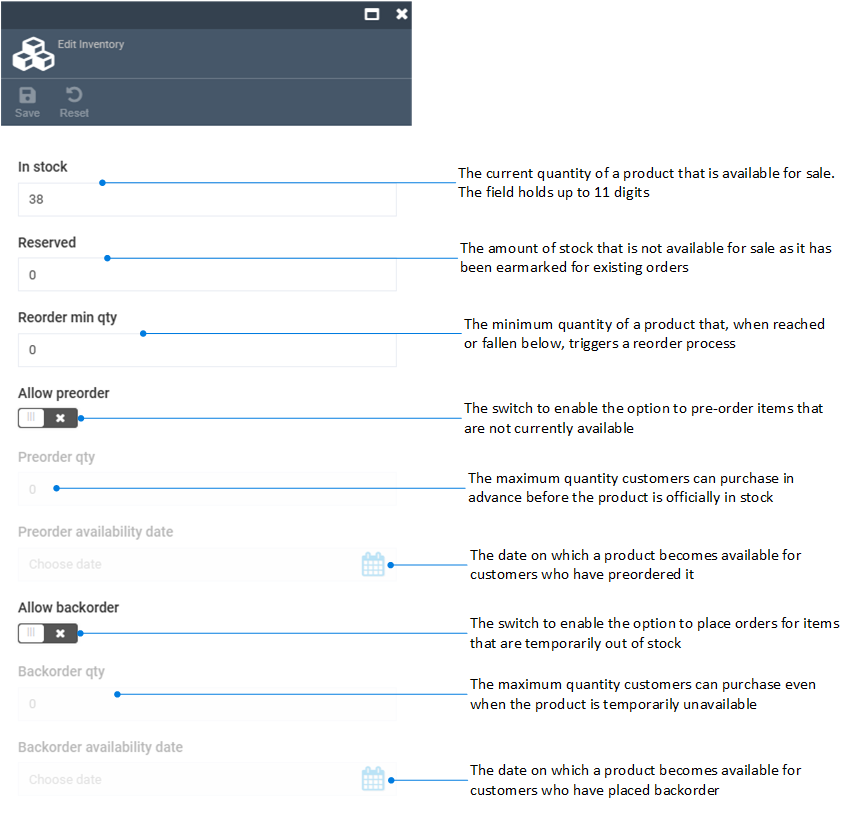
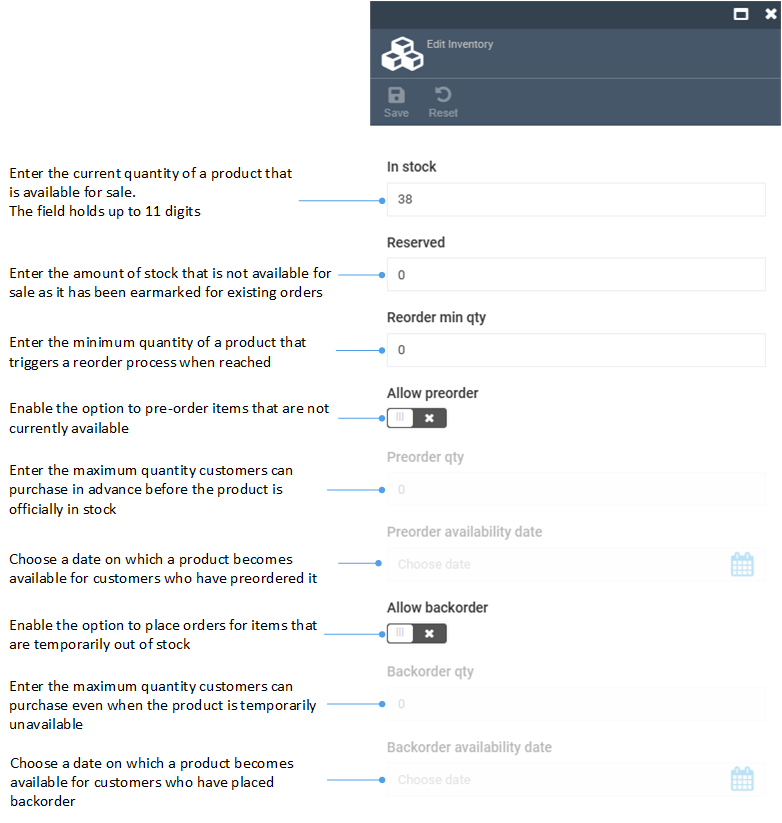
Minor corrections

diff --git a/platform/user-guide/docs/glossary.md b/platform/user-guide/docs/glossary.md
@@ -1,9 +1,8 @@
-
 **Association:** A tool that allows you to add a block of related items to a product or multiple products. For example, this could be a widget with related products or accessories that go with the product in question.
 
 **Bill of materials:** A special type of Product that is actually a list of materials required for a specific item purchased by the customer that can be created for internal purposes.
  
-**Catalog:** A module offered by the Virto Commerce platform that allows you to create your own product catalog linked to one or more stores. A typical catalog houses various categories of products and their variations. 
+**Catalog:** A module offered by the Virto Commerce Platform that allows you to create your own product catalog linked to one or more stores. A typical catalog houses various categories of products and their variations. 
 
 **Category:** Each category acts as a container, or folder, that houses various products of a particular type; these can be both physical and digital products. For example, a consumer electronics site might have categories such as laptops, tablets, smartphones, cameras, etc.
 
@@ -23,31 +22,37 @@
 
 **Employee:** A profile of an employee working for a specific company.
 
-**End Date** and **Start Date**: Dates that define the contract period; the contract is considered to be within this date range.
+**End date** and **Start date**: Dates that define the active period of a contract, promotion, or other time-based entity.
 
 **Facet:** A set of properties grouped together (e.g., size and color).
 
-**GTIN, or Global Trade Item Number:** Part of a numerical code used to uniquely identify a product. Currently, GTIN is used exclusively with bar codes.
+**Fulfillment center:** Processing unit involved in receiving, processing, and delivering orders to end customers.
 
-**Inheritance:** A technique that allows entities at different levels to inherit tags. Tags can be inherited both 'upwards' (e.g. a category inherits the tags of product) and 'downwards' (e.g. a product inherits the tags of its category).
+**GTIN, or Global Trade Item Number:** Part of a numerical code used to uniquely identify a product. 
 
-**Modified Price:** A price that is different from the default price because it has been updated by the user.
+**Inheritance:** A technique that allows entities at different levels to inherit tags. Tags can be inherited both **upwards** (e.g. a category inherits the tags of product) and **downwards** (e.g. a product inherits the tags of its category).
 
-**Physical Product:** Any tangible product that the shop owner can list in the shop. Physical products have a unique Track Inventory attribute that digital products do not have. Shipping and Fulfillment Center attributes are also relevant to them.
+**Modified price:** A price that is different from the default price because it has been updated by the user.
 
-**Product:** A basic entity in Virto Commerce's Catalog module, a product is a basic type of item that can be created and listed on an e-commerce site. You can choose to create entries for both physical and digital products. There are also special types of products, such as bills of materials and variations.
+**Physical product:** Any tangible product that the shop owner can list in the shop. Physical products have a unique Track Inventory attribute that digital products do not have. Shipping and Fulfillment Center attributes are also relevant to them.
+
+**Product:** A basic entity in Virto Commerce's Catalog module, a product is a basic type of item that can be created and listed on an e-commerce site. You can choose to create entries for both physical and digital products. There are also special types of products, such as bills of materials, variations, and configurables.
 
 **Property:** Properties are customizable entities that each catalog, category, or product (including its variations) can have. For example, typical properties for a physical product might include size, color, brand, etc.
+
+**Quote:** Formal document from a seller that provides a potential buyer with the estimated cost of specific products or services, along with the terms and conditions of a potential sale.
 
 **SKU:** Short for Stock Keeping Unit, an SKU is an alphanumeric code used to track product inventory. By adding SKUs to each product variation, store owners can easily track the number of products available and create thresholds to determine if a new order is needed.
 
 **SEO:** Virto Commerce catalog offers dedicated SEO tools to increase traffic to the ecommerce store. In particular, one can add meta titles, descriptions, keywords and image alt-texts for a specific product to make it more discoverable on the web.
 
-**Store:** Any digital means of marketing and/or selling products created with the Virto Commerce platform and its modules. Technically, this can be an e-commerce website, a mobile app, etc.
+**Store:** Any digital means of marketing and/or selling products created with the Virto Commerce Platform and its modules. Technically, this can be an e-commerce website, a mobile app, etc.
 
 **Variation:** Each product may have one or more variations; for example, a cell phone may come in different colors: blue, white, black, etc. You can create variations based on color, size, and other properties that you configure.
 
-**Vendor (Merchant):** A profile for a vendor you work with.
+**Vendor (Merchant, Seller):** A profile for a vendor you work with.
+
+**Warehouse:** Same as **Fulfillment center**. 
 
 
 

diff --git a/platform/user-guide/docs/catalog/setting-product-availability.md b/platform/user-guide/docs/catalog/setting-product-availability.md
@@ -6,8 +6,6 @@ Product inventories are shown in Frontend Application:
 * In the cart after adding the products. 
 * When processing orders.
 
-![Product availability](media/storefront-stock.png)
-
 The product's availability displayed in the Frontend Application is determined by the information configured in:
 
 * The **Catalog** module, where availability settings are established using switches.
@@ -37,17 +35,27 @@ To set product's availability:
     !!! info 
         Track inventory switch can be applied to both digital and physical products. By default, the switch is off for digital products, on for physical ones. 
 
-1. In the same blade, click on the **Fulfillment Centers** widget.
+1. In the same blade, click on the **Fulfillment centers** widget.
 
-    ![add-inventory](media/inventory-path.png)
+    ![add-inventory](media/inventory-path.png){: style="display: block; margin: 0 auto;" }
 
 1. Fill in the following fields:
 
-    ![Edit inventory](../inventory/media/edit-inventory.png)
+    ![Edit inventory](../inventory/media/edit-inventory.png){: style="display: block; margin: 0 auto;" }
 
 1. Click **Save** to save changes.   
 
 The product's availability has been set.
+
+Try our interactive demo to explore key features in action:
+
+<div>
+  <script async src="https://js.storylane.io/js/v2/storylane.js"></script>
+  <div class="sl-embed" style="position:relative;padding-bottom:calc(49.22% + 25px);width:100%;height:0;transform:scale(1)">
+    <iframe loading="lazy" class="sl-demo" src="https://virtocommerce.storylane.io/demo/vorljmcpyz7y?embed=inline" name="sl-embed" allow="fullscreen" allowfullscreen style="position:absolute;top:0;left:0;width:100%!important;height:100%!important;border:1px solid rgba(63,95,172,0.35);box-shadow: 0px 0px 18px rgba(26, 19, 72, 0.15);border-radius:10px;box-sizing:border-box;"></iframe>
+  </div>
+</div>
+
 
 ## Check availability
 
@@ -56,14 +64,14 @@ To check product's availability:
 1. Follow steps 1-3 from the instruction above.
 1. In the next blade, click on the **Index** widget.
 
-    ![Index widget](media/index-widget.png){: width="300" height="300"}
+    ![Index widget](media/index-widget.png){: style="display: block; margin: 0 auto;" width="500"}
 
 1. Find the **availability** line. The **availability** statuses can be as follows:
     * **InStock**.
     * **OutOfStock**.
     * **SoldOut**.
 
-    ![Availability status](media/availability-status.png)
+    ![Availability status](media/availability-status.png){: style="display: block; margin: 0 auto;" }
 
 
 <br>

diff --git a/platform/user-guide/docs/general-guidelines.md b/platform/user-guide/docs/general-guidelines.md
@@ -36,6 +36,12 @@ The feature is available only for multi-language Frontend configurations.
 
 When a customer changes the language in the Frontend, the permalink is updated in the browser to include the selected culture code (for example, **/en/about-us** --> **/de/über-uns**). The selected language is saved in local storage and automatically applied as the default language for future visits.
 
+### Items URLs
+
+When you open the desired order, product, or product category, you can copy its URL and paste it into a new window to open the desired item immediately:
+
+![Copy and paste order URL](media/order-url.gif)
+
 
 ## Blades
 
@@ -68,12 +74,6 @@ In the **Settings** toolbar, you can:
 
 ![Restart and reset](media/restart-reset.png){: style="display: block; margin: 0 auto;" }
 
-## Items URLs
-
-When you open the desired order, product, or product category, you can copy its URL and paste it into a new window to open the desired item immediately:
-
-![Copy and paste order URL](media/order-url.gif)
-
 
 ## Developer tools
 
@@ -88,6 +88,12 @@ This section gives developers access to useful diagnostics and integration tools
 
 
 The **Developer tools** blade is available to users with the **platform:developer-tools:access** permission. Access to **Hangfire** also requires the same permission.
+
+## Glossary
+
+All terms used throughout the Platform user documentation are listed in the [Glossary](glossary.md), where you can find clear definitions and explanations for each concept.
+Some key terms also include tooltips that appear the first time they are mentioned in the documentation, helping you quickly understand their meaning without leaving the page.
+
 
 <br>
 <br>

diff --git a/platform/user-guide/docs/multiregional-ecommerce.md b/platform/user-guide/docs/multiregional-ecommerce.md
@@ -28,7 +28,7 @@ The Catalog module supports master catalogs, which are physical catalogs that st
 The following modules are included to discuss a multi-regional ecommerce solution.
 
 * **Web store** is a sales point for the store, which can be a website, application, or other platform.
-* **Virto Commerce** is a Platform with native, extended, or new customer-specific modules.
+* **Virto Commerce** is a platform with native, extended, or new customer-specific modules.
 * **The catalog module** is responsible for running CRUD operations to build the seller's product catalog structure.
 * **The master catalog** contains the seller's catalog assortment master data, which can be uploaded via .CSV file import or RESTful API. The master catalog can be enhanced with additional properties through the back office and can be utilized for multiple stores configured in Virto Commerce. In the scheme, the master catalog is directly used for US and CA web stores.
 * **The virtual catalog** is a tool that can be used to build a subset or combination of items from one or more master catalogs. This tool adjusts the catalog structure to meet specific regional requirements. The virtual catalog can be created and used specifically for the EU region web store in the architecture scheme.

diff --git a/platform/user-guide/docs/inventory/managing-inventory.md b/platform/user-guide/docs/inventory/managing-inventory.md
@@ -6,13 +6,14 @@ To edit the product's inventory:
 1. Select the relevant catalog in the **Catalog** blade.
 1. In the next **Categories and Items** blade, select the product.
 1. On the product page, click on the **Fulfillment centers** widget.
+*[Fulfillment centers]: Processing units involved in receiving, processing, and delivering orders to end customers
+
 1. Click the fulfillment center to which you want to add the product inventory. This opens the **Edit Inventory** blade:
 1. Update the following fields:
 
-	![Edit inventory](media/edit-inventory.png) 
+	![Edit inventory](media/edit-inventory.png){: style="display: block; margin: 0 auto;" }
 
 1. Click **Save** in the toolbar to save the changes.
-
 
 ![Read more](media/readmore.png){: width="20"} [Managing product's availability and tracking inventory for digital and physical products](../catalog/setting-product-availability.md)
 

diff --git a/platform/user-guide/docs/quotes/overview.md b/platform/user-guide/docs/quotes/overview.md
@@ -1,6 +1,6 @@
 # Overview
 
-The **Quote (Quotes)** module represents quotes management system. You can view the list of [submitted quotes](../../../../storefront/user-guide/shopping/submit-quotes) via this module.
+The **Quote (Quotes)** module represents quote management system. You can view the list of [submitted quotes](../../../../storefront/user-guide/shopping/submit-quotes) via this module.
 
 [![Download module](media/source_code.png)](https://github.com/VirtoCommerce/vc-module-quote/releases)
 

diff --git a/platform/user-guide/docs/catalog/add-new-catalog.md b/platform/user-guide/docs/catalog/add-new-catalog.md
@@ -11,6 +11,7 @@ You can readily differentiate physical catalogs from virtual ones through their 
 
 !!! note
 	Fulfillment centers are relevant to physical products only. If a store sells digital content, such as software or music, it does not need such centers.
+*[Fulfillment centers]: Processing units involved in receiving, processing, and delivering orders to end customers 
 
 ## Physical catalogs
 

diff --git a/platform/user-guide/docs/backup-and-restore.md b/platform/user-guide/docs/backup-and-restore.md
@@ -1,6 +1,6 @@
 # Backup and Restore  
 
-The **Backup and Restore** feature in Virto Commerce allows you to securely export and restore platform data, ensuring data safety and easy recovery when needed.  
+The **Backup and Restore** feature in Virto Commerce allows you to securely export and restore Platform data, ensuring data safety and easy recovery when needed.  
 
 ## Backup  
 
